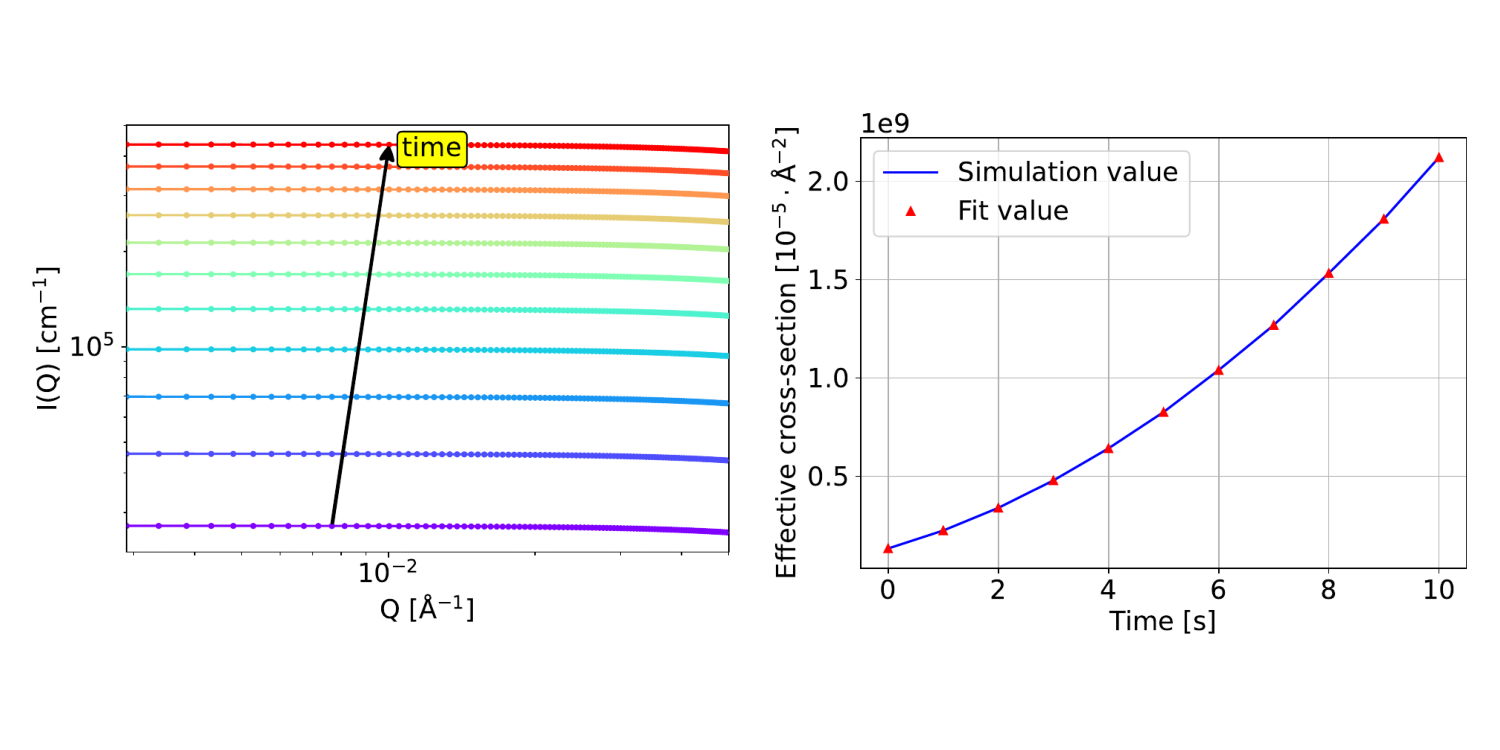
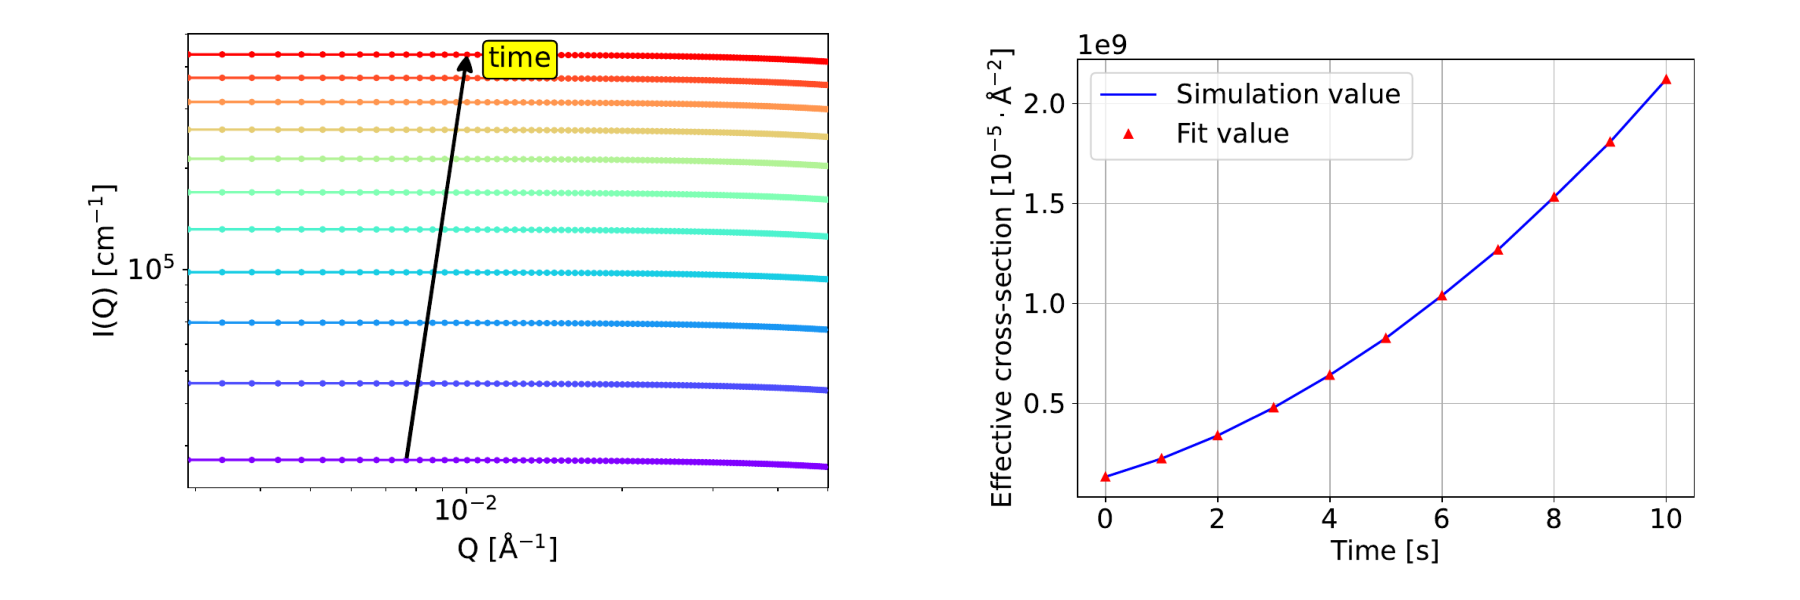
minor adjustment in fi2 left subfig

diff --git a/models/sld_grow/sld_grow_plot_joss.py b/models/sld_grow/sld_grow_plot_joss.py
@@ -274,7 +274,7 @@ arrow = FancyArrowPatch(
     zorder=100
 )
 ax_scatt_all.add_patch(arrow)
-ax_scatt_all.text(1.23e-2, 4.2e5, "time", fontsize=17, ha="center", va="center", zorder=100,
+ax_scatt_all.text(1.27e-2, 4.2e5, "time", fontsize=17, ha="center", va="center", zorder=100,
                    bbox=dict(facecolor="yellow", edgecolor="k", boxstyle="round,pad=0.2"))
 # plot formatting
 ## legend

diff --git a/joss_submission/figures/figure_sig_eff.py b/joss_submission/figures/figure_sig_eff.py
@@ -36,7 +36,7 @@ def create_pdf_figure(pdf_paths, output_image='figure.png', dpi=150):
         images.append(pages[0])  # use first page only
 
     cols = len(images)
-    fig, axes = plt.subplots(1, cols, figsize=(5 * cols, 5))
+    fig, axes = plt.subplots(1, cols, figsize=(6 * cols, 4))
 
     if cols == 1:
         axes = [axes]
